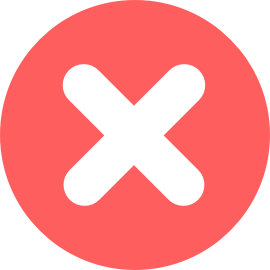
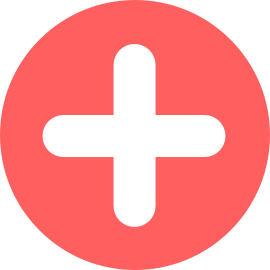
Arrow roatate animation added

Changed region(s): [[0.1481, 0.1481, 0.8593, 0.8593]]

diff --git a/PullToRefreshView.swift b/PullToRefreshView.swift
@@ -192,8 +192,9 @@ public class PullToRefreshView: UIView {
                         
                         
                         self.pulledThatFar = true
-                        self.arrow.image = UIImage(named: "pullDownArrow")
+                        //self.arrow.image = UIImage(named: "pullDownArrow")
                         self.arrow.alpha = 1.0
+                        self.arrowRotateAndChange()
                         //NSLog("THAT FAR")
                         
                     }
@@ -268,8 +269,16 @@ public class PullToRefreshView: UIView {
     private func arrowRotation() {
         UIView.animateWithDuration(0.2, delay: 0, options:[], animations: {
             // -0.0000001 for the rotation direction control
-            self.arrow.transform = CGAffineTransformMakeRotation(CGFloat(M_PI-0.0000001))
+            self.arrow.transform = CGAffineTransformMakeRotation(CGFloat(M_PI - 0.0000000001))
         }, completion:nil)
+    }
+    
+    private func arrowRotateAndChange() {
+        UIView.animateWithDuration(0.2, delay: 0, options:[], animations: {
+            // -0.0000001 for the rotation direction control
+            self.arrow.transform = CGAffineTransformMakeRotation(CGFloat(-M_PI_4))
+            self.arrow.image = UIImage(named:"pullDownArrow")
+            }, completion:nil)
     }
     
     private func arrowRotationBack() {
